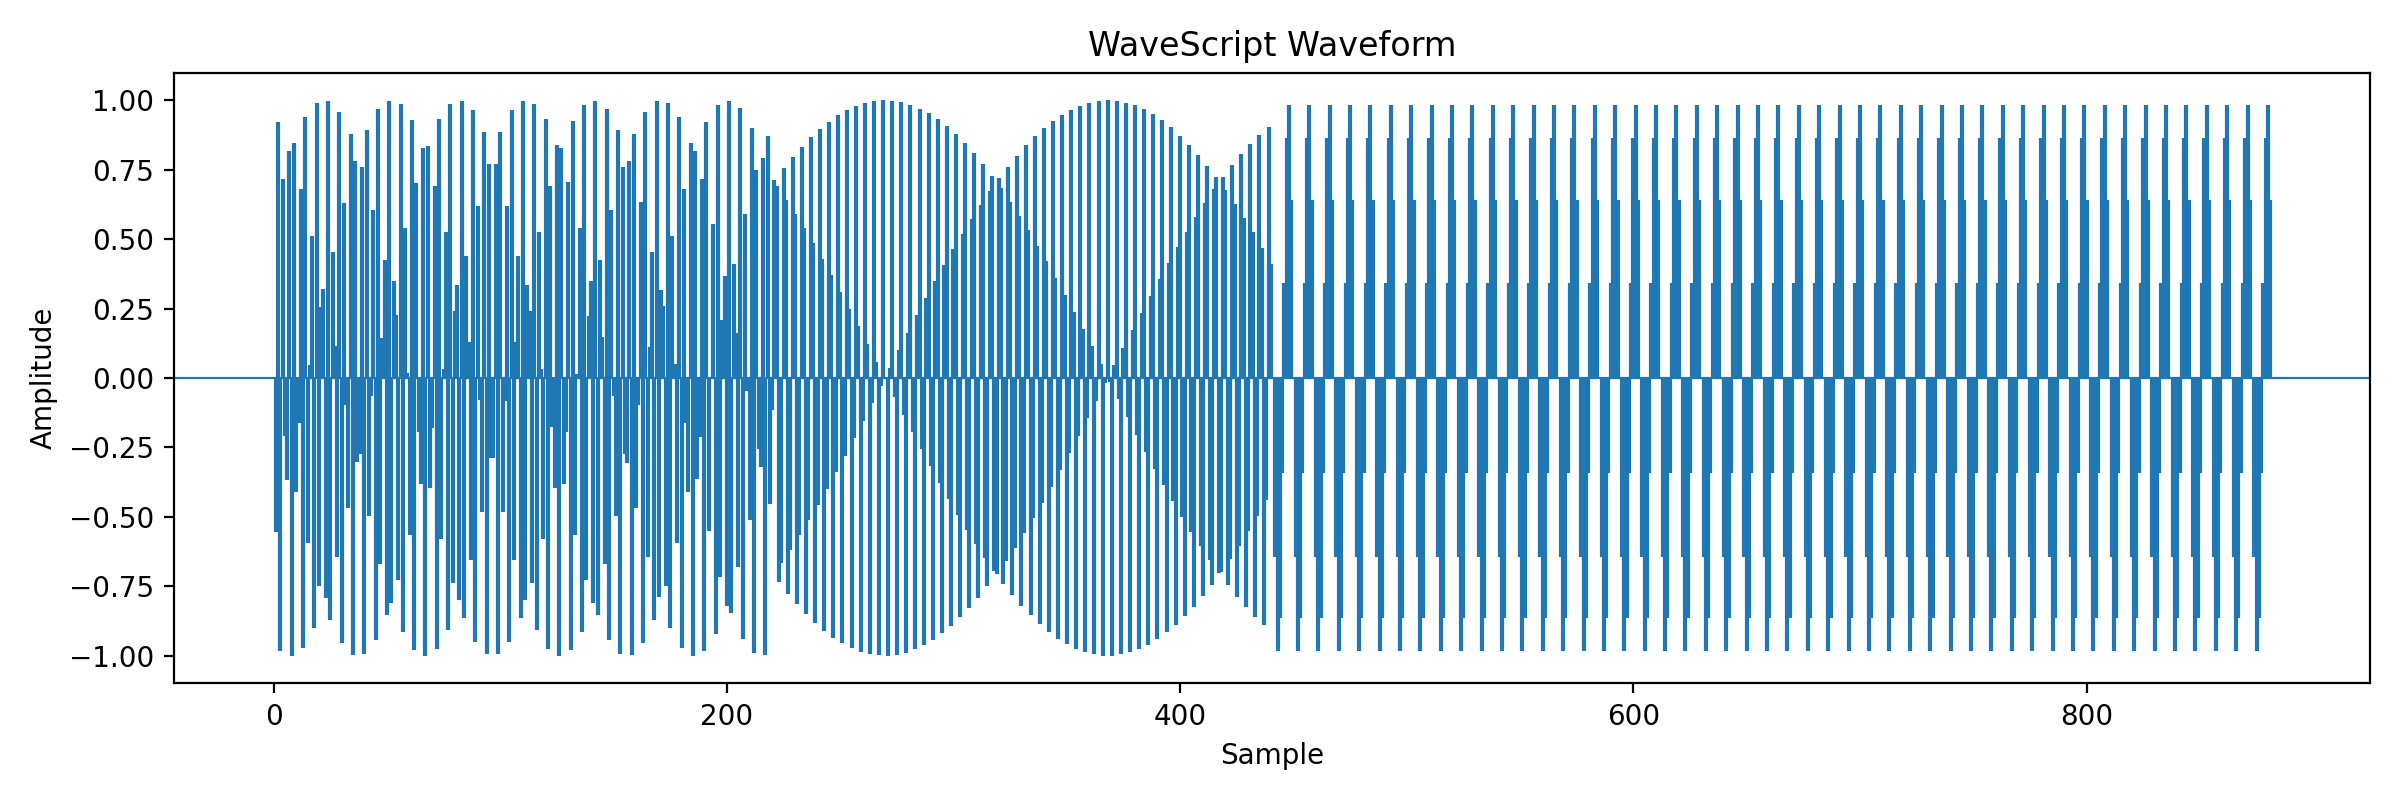
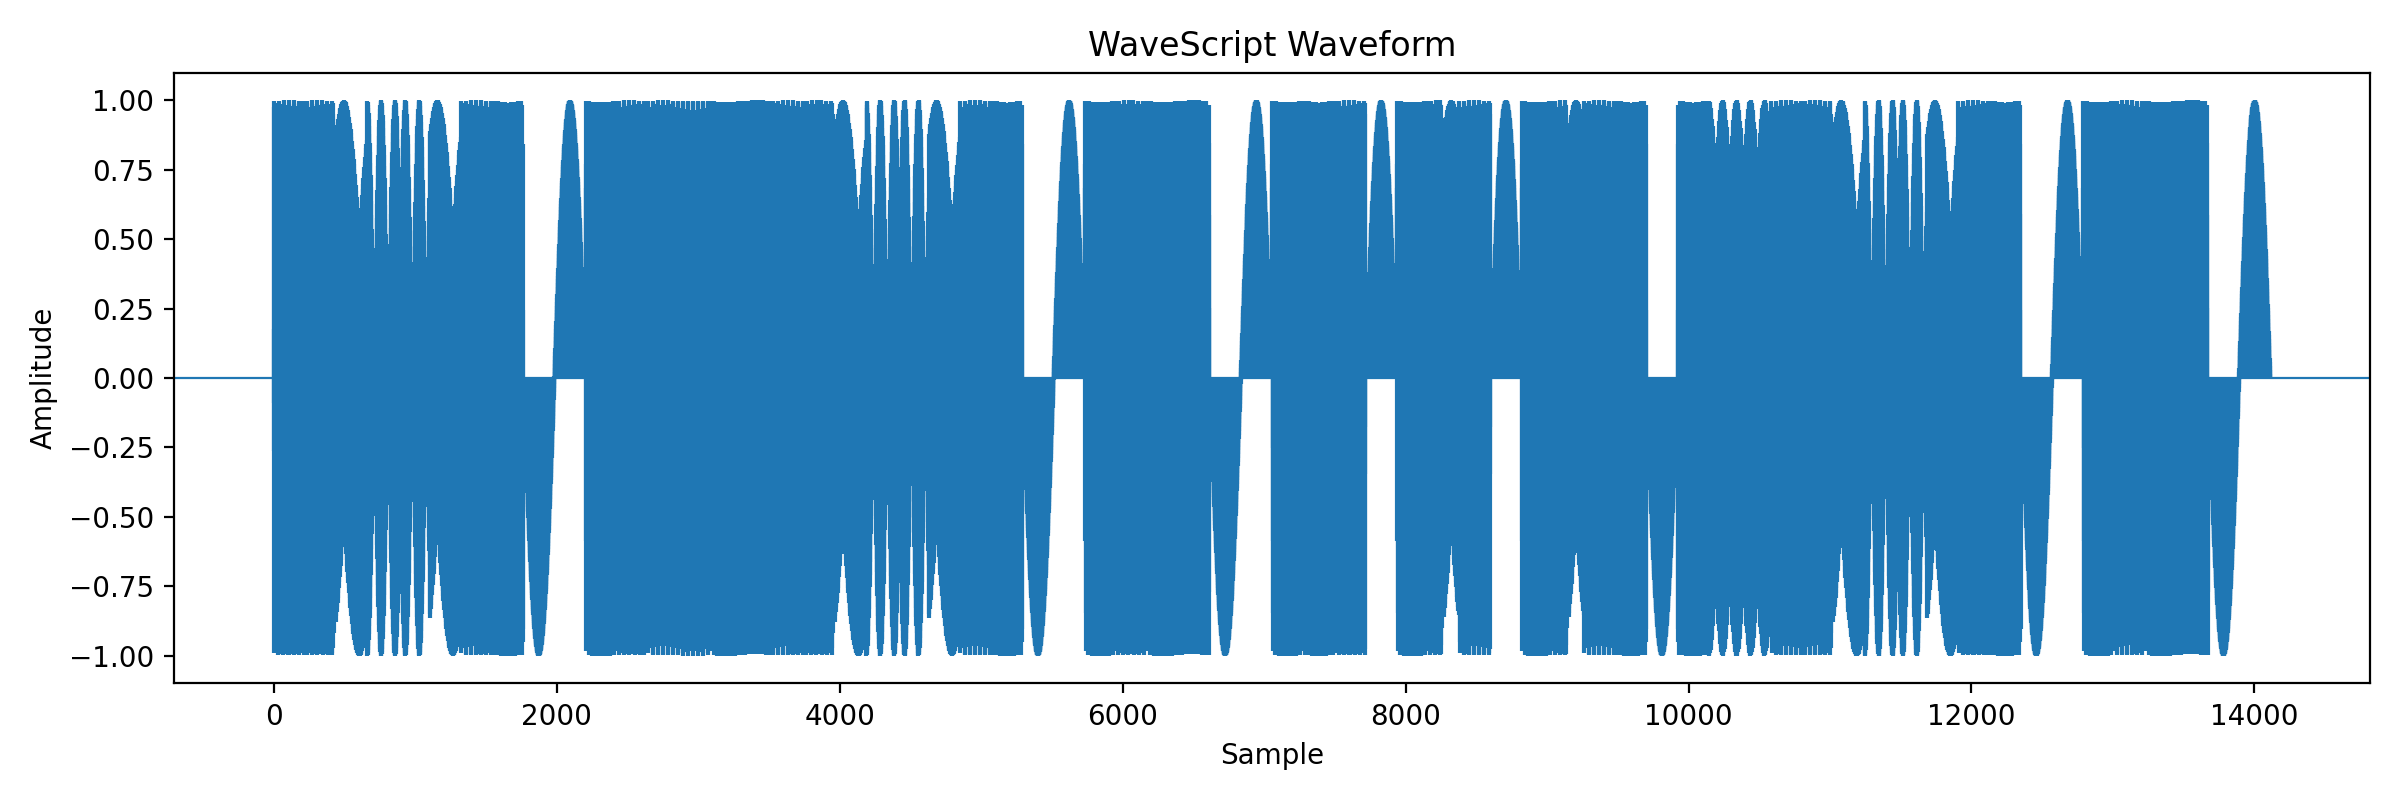
Updated examples to match grammar and fixed main

diff --git a/main.py b/main.py
@@ -1,36 +1,38 @@
+import sys
 from textx import metamodel_from_file
 from interpreter.interpreter import WaveScriptInterpreter
-import json
+import subprocess
+from backends.audio import generate_audio
+from backends.visualizer import save_waveform
+from backends.lilypond import export_lilypond
+
 
 def main():
-    # 1. Load the grammar and create a metamodel
-    # This points to your .tx file in the grammar folder
-    mm = metamodel_from_file('grammar/wavescript.tx')
-
-    # 2. Read your FizzBuzz sample program
-    # Assuming the file is in the examples folder
-    try:
-        with open('examples/fizzbuzz.wave', 'r') as f:
-            program_code = f.read()
-    except FileNotFoundError:
-        print("Error: fizzbuzz.wave not found in examples/ folder.")
+    if len(sys.argv) < 2:
+        print("Usage: python main.py <file.wave>")
         return
 
-    # 3. Parse the code into an AST (Model)
-    model = mm.model_from_str(program_code)
+    file_path = sys.argv[1]
 
-    # 4. Initialize and run Jania's Interpreter
-    # This handles variables, loops, and event generation
+    # Load grammar
+    mm = metamodel_from_file('grammar/wavescript.tx')
+
+    # Parse program
+    model = mm.model_from_file(file_path)
+
+    # Interpret
     interpreter = WaveScriptInterpreter()
     events = interpreter.interpret(model)
 
-    # 5. Print the Output
-    print("--- Execution Output ---")
-    # The print statements inside the interpreter will appear here
-    
-    print("\n--- Generated Sound Events (JSON) ---")
-    # This is the "Shared Contract" for Greta
-    print(json.dumps(events, indent=2))
+    print("\nGenerated Events:")
+    for e in events:
+        print(e)
+
+    # Backend outputs
+    audio_buffer = generate_audio(events, "outputs/audio.wav")
+    save_waveform(audio_buffer, "outputs/waveform.png")
+    export_lilypond(events, "outputs/score.ly", tempo=140)
+    subprocess.run(["lilypond", "-o", "outputs/score", "outputs/score.ly"])
 
 if __name__ == "__main__":
     main()

diff --git a/backends/lilypond.py b/backends/lilypond.py
@@ -1,6 +1,14 @@
 from pathlib import Path
 
 PITCH_MAP = {
+    "C3": "c",
+    "D3": "d",
+    "E3": "e",
+    "F3": "f",
+    "G3": "g",
+    "A3": "a",
+    "B3": "b",
+
     "C4": "c'",
     "D4": "d'",
     "E4": "e'",
@@ -8,6 +16,7 @@ PITCH_MAP = {
     "G4": "g'",
     "A4": "a'",
     "B4": "b'",
+
     "C5": "c''",
     "D5": "d''",
     "E5": "e''",
@@ -17,15 +26,25 @@ PITCH_MAP = {
     "B5": "b''",
 }
 
-DURATION_MAP = {
-    1.0: "4",   # quarter
-    0.5: "8",   # eighth
-    2.0: "2",   # half
-    4.0: "1",   # whole
-}
+
+def duration_to_lilypond(duration, tempo=140):
+    quarter_seconds = 60 / tempo
+
+    ratio = duration / quarter_seconds
+
+    if abs(ratio - 0.5) < 0.15:
+        return "8"   # eighth note
+    elif abs(ratio - 1.0) < 0.15:
+        return "4"   # quarter note
+    elif abs(ratio - 2.0) < 0.25:
+        return "2"   # half note
+    elif abs(ratio - 4.0) < 0.35:
+        return "1"   # whole note
+    else:
+        return "4"   # fallback to quarter note
 
 
-def export_lilypond(events, filename="outputs/score.ly"):
+def export_lilypond(events, filename="outputs/score.ly", tempo=140):
     if not events:
         raise ValueError("No events provided.")
 
@@ -39,9 +58,7 @@ def export_lilypond(events, filename="outputs/score.ly"):
         if lily_pitch is None:
             raise ValueError(f"Unsupported pitch for LilyPond export: {pitch}")
 
-        lily_duration = DURATION_MAP.get(duration)
-        if lily_duration is None:
-            raise ValueError(f"Unsupported duration for LilyPond export: {duration}")
+        lily_duration = duration_to_lilypond(duration, tempo)
 
         notes.append(f"{lily_pitch}{lily_duration}")
 
@@ -50,6 +67,7 @@ def export_lilypond(events, filename="outputs/score.ly"):
     lilypond_text = f'''\\version "2.24.0"
 \\score {{
   \\new Staff {{
+    \\tempo 4 = {tempo}
     {score_body}
   }}
   \\layout {{ }}